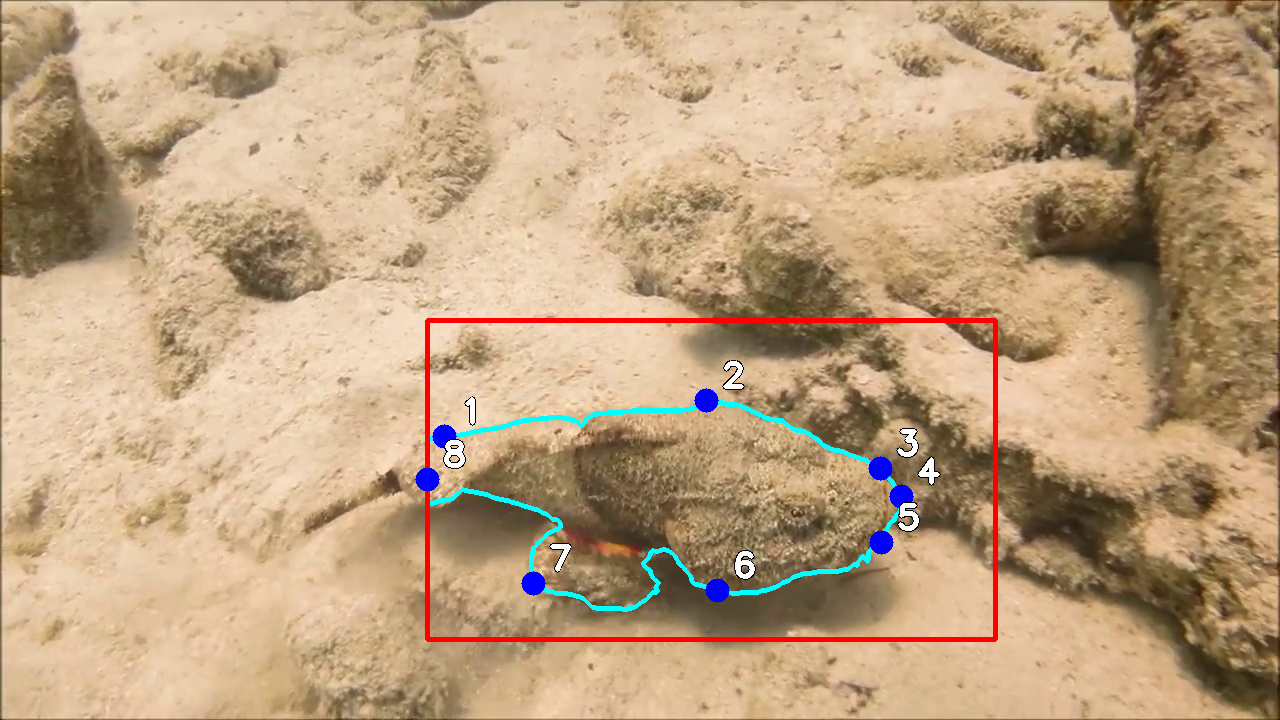
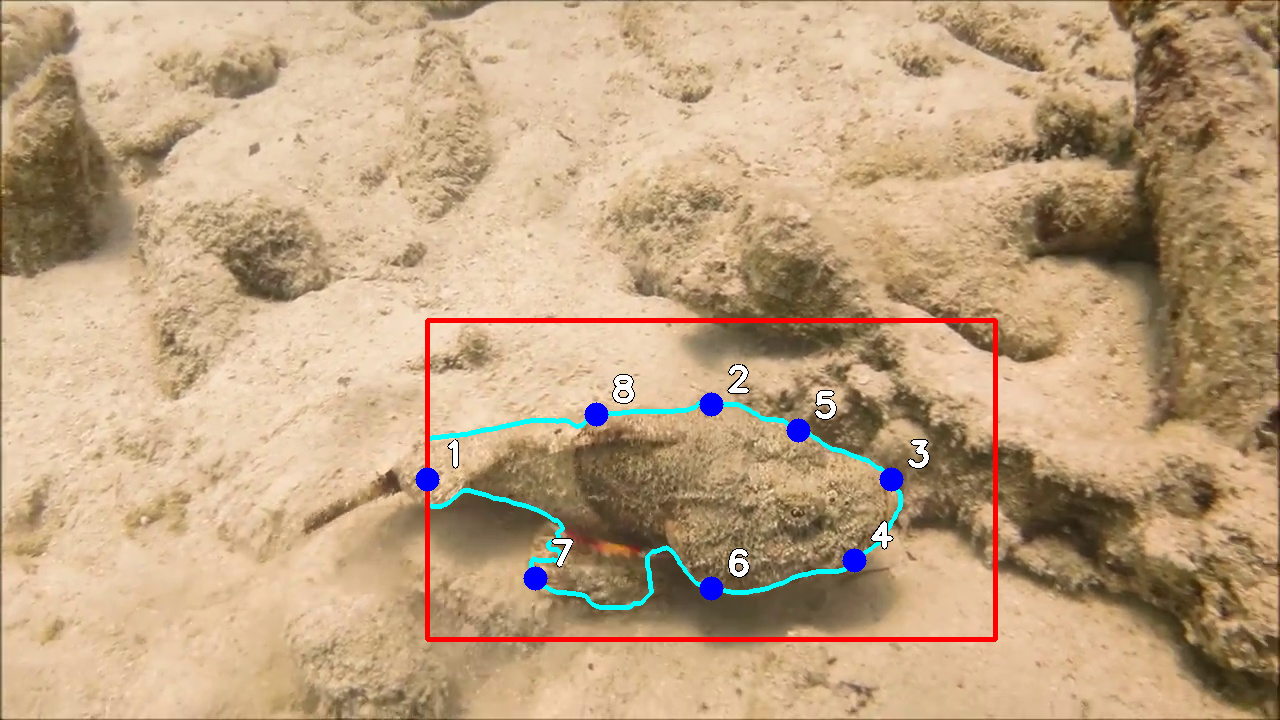
v1成功了

diff --git a/refactor_sam_sculpt.py b/refactor_sam_sculpt.py
@@ -162,6 +162,108 @@ def get_anchor_points(roi_box: ROIBox) -> List[Tuple[float, float]]:
     ]
 
 
+def find_line_contour_intersections(line_start: Tuple[float, float], line_end: Tuple[float, float], contour: np.ndarray) -> List[Tuple[float, float]]:
+    """找到线段与轮廓的交点"""
+    if len(contour) == 0:
+        return []
+
+    intersections = []
+    x1, y1 = line_start
+    x2, y2 = line_end
+
+    # 遍历轮廓的每条边，找交点
+    for i in range(len(contour)):
+        # 当前边的两个端点
+        p1 = contour[i]
+        p2 = contour[(i + 1) % len(contour)]
+
+        x3, y3 = float(p1[0]), float(p1[1])
+        x4, y4 = float(p2[0]), float(p2[1])
+
+        # 计算两条线段的交点（如果存在）
+        denom = (x1 - x2) * (y3 - y4) - (y1 - y2) * (x3 - x4)
+        if abs(denom) < 1e-10:  # 平行线
+            continue
+
+        t = ((x1 - x3) * (y3 - y4) - (y1 - y3) * (x3 - x4)) / denom
+        u = -((x1 - x2) * (y1 - y3) - (y1 - y2) * (x1 - x3)) / denom
+
+        # 检查交点是否在两条线段上
+        if 0 <= t <= 1 and 0 <= u <= 1:
+            ix = x1 + t * (x2 - x1)
+            iy = y1 + t * (y2 - y1)
+            intersections.append((ix, iy))
+
+    return intersections
+
+
+def get_line_based_anchor_points(roi_box: ROIBox, mask: np.ndarray) -> List[Tuple[float, float]]:
+    """基于BBox连线与轮廓交点的锚点生成方法"""
+    # 提取主轮廓
+    main_contour = extract_main_contour(mask)
+
+    # 如果没有轮廓，返回原始锚点
+    if len(main_contour) == 0:
+        print("[WARN] 未找到主轮廓，使用原始锚点")
+        return get_anchor_points(roi_box)
+
+    x0, y0, x1, y1 = roi_box.x0, roi_box.y0, roi_box.x1, roi_box.y1
+    cx, cy = (x0 + x1) / 2, (y0 + y1) / 2
+
+    # 定义4条关键线段
+    lines = [
+        # 对角线1：左上角到右下角
+        ((x0, y0), (x1, y1)),
+        # 对角线2：右上角到左下角
+        ((x1, y0), (x0, y1)),
+        # 垂直中线：上边中点到下边中点
+        ((cx, y0), (cx, y1)),
+        # 水平中线：左边中点到右边中点
+        ((x0, cy), (x1, cy))
+    ]
+
+    # 收集所有交点
+    all_intersections = []
+    for line_start, line_end in lines:
+        intersections = find_line_contour_intersections(line_start, line_end, main_contour)
+        all_intersections.extend(intersections)
+
+    # 如果交点不足，使用原始锚点作为补充
+    if len(all_intersections) < 8:
+        print(f"[INFO] 找到 {len(all_intersections)} 个交点，使用原始锚点补充")
+        original_anchors = get_anchor_points(roi_box)
+
+        # 使用交点作为前几个锚点，剩余用原始锚点填充
+        result_anchors = all_intersections[:]
+        for i in range(len(all_intersections), 8):
+            if i < len(original_anchors):
+                result_anchors.append(original_anchors[i])
+    else:
+        # 如果交点过多，选择8个最具代表性的点
+        # 按照与BBox角点和边中点的距离进行选择
+        original_anchors = get_anchor_points(roi_box)
+        result_anchors = []
+
+        for orig_anchor in original_anchors:
+            # 找到距离原始锚点最近的交点
+            if all_intersections:
+                distances = [
+                    (ix - orig_anchor[0])**2 + (iy - orig_anchor[1])**2
+                    for ix, iy in all_intersections
+                ]
+                closest_idx = np.argmin(distances)
+                closest_intersection = all_intersections.pop(closest_idx)
+                result_anchors.append(closest_intersection)
+            else:
+                result_anchors.append(orig_anchor)
+
+    # 打印调试信息
+    for i, anchor in enumerate(result_anchors[:8]):
+        print(f"锚点 {i+1}: ({anchor[0]:.1f}, {anchor[1]:.1f})")
+
+    return result_anchors[:8]
+
+
 def get_projected_anchor_points(roi_box: ROIBox, mask: np.ndarray) -> List[Tuple[float, float]]:
     """获取贴边投影后的8个锚点坐标（投影到轮廓上）"""
     # 首先获取原始锚点
@@ -207,8 +309,8 @@ def draw_anchors_on_image(image: np.ndarray, roi_box: ROIBox, mask: np.ndarray) 
     _, box_th = _auto_font_and_thickness(base_len)
     cv2.rectangle(vis_img, (int(roi_box.x0), int(roi_box.y0)), (int(roi_box.x1), int(roi_box.y1)), (255, 0, 0), box_th)
 
-    # 使用贴边投影后的锚点
-    projected_anchor_points = get_projected_anchor_points(roi_box, mask)
+    # 使用基于连线交点的锚点
+    projected_anchor_points = get_line_based_anchor_points(roi_box, mask)
     radius = int(max(5, min(16, base_len / 25.0)))
     font_scale, text_th = _auto_font_and_thickness(base_len)
     
@@ -223,6 +325,154 @@ def draw_anchors_on_image(image: np.ndarray, roi_box: ROIBox, mask: np.ndarray) 
         cv2.putText(vis_img, str(i), (text_x, text_y), cv2.FONT_HERSHEY_SIMPLEX, font_scale, (255, 255, 255), text_th)
 
     return vis_img
+
+
+def get_contour_tangent_at_point(point: Tuple[float, float], contour: np.ndarray, window_size: int = 5) -> Tuple[float, float]:
+    """计算轮廓在指定点处的切线向量"""
+    if len(contour) == 0:
+        return (1.0, 0.0)  # 默认水平方向
+
+    px, py = float(point[0]), float(point[1])
+
+    # 找到距离锚点最近的轮廓点
+    distances = np.sqrt((contour[:, 0] - px) ** 2 + (contour[:, 1] - py) ** 2)
+    closest_idx = np.argmin(distances)
+
+    # 在最近点周围取一个窗口来计算切线
+    n_points = len(contour)
+    start_idx = (closest_idx - window_size) % n_points
+    end_idx = (closest_idx + window_size) % n_points
+
+    # 取窗口内的点
+    if start_idx <= end_idx:
+        window_points = contour[start_idx:end_idx+1]
+    else:
+        window_points = np.concatenate([contour[start_idx:], contour[:end_idx+1]])
+
+    if len(window_points) < 2:
+        return (1.0, 0.0)
+
+    # 计算平均切线方向
+    tangent_vectors = []
+    for i in range(len(window_points) - 1):
+        dx = window_points[i+1][0] - window_points[i][0]
+        dy = window_points[i+1][1] - window_points[i][1]
+        if dx != 0 or dy != 0:
+            tangent_vectors.append((dx, dy))
+
+    if not tangent_vectors:
+        return (1.0, 0.0)
+
+    # 计算平均切线方向
+    avg_dx = sum(v[0] for v in tangent_vectors) / len(tangent_vectors)
+    avg_dy = sum(v[1] for v in tangent_vectors) / len(tangent_vectors)
+
+    # 归一化
+    length = np.sqrt(avg_dx * avg_dx + avg_dy * avg_dy)
+    if length < 1e-6:
+        return (1.0, 0.0)
+
+    return (avg_dx / length, avg_dy / length)
+
+
+def create_tangent_square_visualization(image: np.ndarray, anchor_point: Tuple[float, float],
+                                      roi_box: ROIBox, mask: np.ndarray, anchor_id: int,
+                                      ratio: float = 0.8) -> Tuple[np.ndarray, Tuple[int, int, int, int, Tuple[float, float], Tuple[float, float]]]:
+    """基于切线的内外正方形可视化"""
+    # 计算正方形半边长
+    roi_width = roi_box.x1 - roi_box.x0
+    roi_height = roi_box.y1 - roi_box.y0
+    base_size = max(120.0, float(ratio) * float(min(roi_width, roi_height)))
+    half_size = base_size / 2.0
+
+    # 锚点坐标
+    cx, cy = float(anchor_point[0]), float(anchor_point[1])
+
+    # 提取主轮廓并计算切线方向
+    main_contour = extract_main_contour(mask)
+    if len(main_contour) > 0:
+        tangent_dx, tangent_dy = get_contour_tangent_at_point(anchor_point, main_contour)
+    else:
+        tangent_dx, tangent_dy = 1.0, 0.0  # 默认水平方向
+
+    # 计算法线方向（垂直于切线，指向内侧）
+    normal_dx, normal_dy = -tangent_dy, tangent_dx
+
+    # 计算正方形的四个角点
+    # 以切线和法线方向为基础构建正方形
+    corners = [
+        (cx - half_size * tangent_dx - half_size * normal_dx, cy - half_size * tangent_dy - half_size * normal_dy),  # 左下
+        (cx + half_size * tangent_dx - half_size * normal_dx, cy + half_size * tangent_dy - half_size * normal_dy),  # 右下
+        (cx + half_size * tangent_dx + half_size * normal_dx, cy + half_size * tangent_dy + half_size * normal_dy),  # 右上
+        (cx - half_size * tangent_dx + half_size * normal_dx, cy - half_size * tangent_dy + half_size * normal_dy),  # 左上
+    ]
+
+    # 计算包围盒
+    min_x = min(corner[0] for corner in corners)
+    max_x = max(corner[0] for corner in corners)
+    min_y = min(corner[1] for corner in corners)
+    max_y = max(corner[1] for corner in corners)
+
+    L = max(0, int(round(min_x)))
+    T = max(0, int(round(min_y)))
+    R = min(int(image.shape[1]), int(round(max_x)))
+    Btm = min(int(image.shape[0]), int(round(max_y)))
+
+    vis = image.copy()
+
+    # 绘制轮廓
+    if len(main_contour) > 0:
+        base_len = float(min(roi_width, roi_height))
+        _, contour_th = _auto_font_and_thickness(base_len)
+        contour_th = max(2, contour_th)
+        cv2.drawContours(vis, [main_contour.reshape(-1, 1, 2).astype(np.int32)], -1, (0, 255, 255), contour_th // 2)
+
+    # 线宽与字体
+    font_scale, thick = _auto_font_and_thickness(base_size)
+    line_th = max(2, thick)
+
+    # 绘制正方形边框
+    square_points = np.array(corners, dtype=np.int32)
+    cv2.polylines(vis, [square_points], True, (0, 255, 255), line_th)
+
+    # 绘制切线（水平分割线）
+    cut_line_start = (cx - half_size * tangent_dx, cy - half_size * tangent_dy)
+    cut_line_end = (cx + half_size * tangent_dx, cy + half_size * tangent_dy)
+    cv2.line(vis, (int(cut_line_start[0]), int(cut_line_start[1])),
+             (int(cut_line_end[0]), int(cut_line_end[1])), (0, 255, 255), line_th)
+
+    # 计算内外区域的中心点
+    inner_center = (cx + half_size * normal_dx * 0.5, cy + half_size * normal_dy * 0.5)  # 内侧区域中心
+    outer_center = (cx - half_size * normal_dx * 0.5, cy - half_size * normal_dy * 0.5)  # 外侧区域中心
+
+    # 绘制区域标签
+    # "内" 标签 (1)
+    cv2.putText(vis, "1", (int(inner_center[0]), int(inner_center[1])),
+                cv2.FONT_HERSHEY_SIMPLEX, font_scale, (0, 0, 0), thick + 2)
+    cv2.putText(vis, "1", (int(inner_center[0]), int(inner_center[1])),
+                cv2.FONT_HERSHEY_SIMPLEX, font_scale, (255, 255, 0), thick)
+
+    # "外" 标签 (2)
+    cv2.putText(vis, "2", (int(outer_center[0]), int(outer_center[1])),
+                cv2.FONT_HERSHEY_SIMPLEX, font_scale, (0, 0, 0), thick + 2)
+    cv2.putText(vis, "2", (int(outer_center[0]), int(outer_center[1])),
+                cv2.FONT_HERSHEY_SIMPLEX, font_scale, (255, 255, 0), thick)
+
+    return vis, (L, T, R, Btm, inner_center, outer_center)
+
+
+def get_tangent_region_center(square_bounds: Tuple[int, int, int, int, Tuple[float, float], Tuple[float, float]],
+                            region_id: int) -> Tuple[float, float]:
+    """获取指定切线区域的中心点坐标"""
+    _, _, _, _, inner_center, outer_center = square_bounds
+
+    if region_id == 1:  # 内侧区域
+        return inner_center
+    elif region_id == 2:  # 外侧区域
+        return outer_center
+    else:
+        # 默认返回内侧中心
+        return inner_center
 
 
 def create_quadrant_visualization(image: np.ndarray, anchor_point: Tuple[float, float],
@@ -438,8 +688,8 @@ def main():
         # 收集所有正负点
         all_pos_points = []
         all_neg_points = []
-        # 使用贴边投影后的锚点
-        projected_anchor_points = get_projected_anchor_points(roi_box, current_mask)
+        # 使用基于连线交点的锚点
+        projected_anchor_points = get_line_based_anchor_points(roi_box, current_mask)
 
         for anchor_info in selected_anchors:
             anchor_id = int(anchor_info.get('id', 0))
@@ -449,12 +699,12 @@ def main():
             # 使用贴边投影后的锚点位置
             anchor_point = projected_anchor_points[anchor_id - 1]
 
-            # 步骤3: 创建扇形可视化
-            print(f"步骤3: 为锚点 {anchor_id} 创建扇形...")
-            quad_vis, circle_bounds = create_quadrant_visualization(
+            # 步骤3: 创建切线内外区域可视化
+            print(f"步骤3: 为锚点 {anchor_id} 创建切线内外区域...")
+            quad_vis, square_bounds = create_tangent_square_visualization(
                 image, anchor_point, roi_box, current_mask, anchor_id, ratio=float(args.ratio)
             )
-            save_image(os.path.join(output_dir, f'step3_round{round_idx + 1}_anchor{anchor_id}_sectors.png'), quad_vis)
+            save_image(os.path.join(output_dir, f'step3_round{round_idx + 1}_anchor{anchor_id}_tangent_square.png'), quad_vis)
 
             # 传给VLM前缩放
             quad_vis_vlm = _resize_for_vlm(quad_vis, int(args.vlm_max_side))
@@ -468,8 +718,8 @@ def main():
                 region_id = int(edit.get('region_id', 0))
                 action = str(edit.get('action', ''))
 
-                if region_id in [1, 2, 3, 4] and action in ['pos', 'neg']:
-                    point = get_sector_center(circle_bounds, region_id, anchor_point)
+                if region_id in [1, 2] and action in ['pos', 'neg']:
+                    point = get_tangent_region_center(square_bounds, region_id)
                     if action == 'pos':
                         all_pos_points.append(point)
                     else:

diff --git a/src/sculptor/vlm/prompts.py b/src/sculptor/vlm/prompts.py
@@ -79,11 +79,11 @@ def build_quadrant_prompt(
     *,
     semantic: Optional[SemanticCtx] = None,
     anchor_hint: Optional[str] = None,
-    max_pos: int = 2,
-    max_neg: int = 2
+    max_pos: int = 1,
+    max_neg: int = 1
 ) -> Dict[str, str]:
     """
-    不改变原有键，但更清晰地约束如何判定 pos/neg。
+    基于切线内外区域的提示词构建。
     """
     sem = semantic or {}
     sys_msg = (
@@ -98,34 +98,43 @@ Salient cues: {_fmt_list(sem.get('salient_cues'))}
 Distractors: {_fmt_list(sem.get('distractors'))}
 NOT-target parts: {_fmt_list(sem.get('not_target_parts'))}
 
-Focus anchor id: {anchor_id}. A square centered at this anchor is split into 4 regions {{1..4}}.
-Normal points outward from the current mask. Tangent aligns with boundary flow.
+Focus anchor id: {anchor_id}. A square region centered at this anchor point is divided by the contour's tangent line into two areas:
+- Region 1 (Inner): The side toward the object interior
+- Region 2 (Outer): The side toward the background/exterior
 
 Internal decision rubric (DO NOT OUTPUT):
-- POS if the region continues target's texture/shape along the inward side or closes a plausible gap.
-- NEG if the region matches background distractors or disrupts target silhouette (outward leak).
-- Prefer one POS + one NEG if both are clear; otherwise choose the single most informative action.
-- Avoid POS where texture sharply mismatches target cues; avoid NEG where cues clearly match the target.
-- Max {max_pos} POS and {max_neg} NEG actions.
+- POS if the region contains target texture/pattern that should be included in the mask
+- NEG if the region contains background patterns, distractors, or should be excluded from the mask
+- You MUST select exactly one region (either inner or outer, not both)
+- Choose the action (pos/neg) that will most improve the segmentation quality
+- Inner regions typically get POS when object extends inward; NEG when mask over-includes
+- Outer regions typically get NEG when background leaks in; POS when object extends outward
 
 Return JSON STRICTLY:
 {{
   "anchor_id": {anchor_id},
   "edits": [
-    {{ "region_id": 1-4, "action": "pos" | "neg", "why": "short justification (no numbers)" }}
+    {{ "region_id": 1 | 2, "action": "pos" | "neg", "why": "short justification" }}
   ]
 }}
 Constraints:
-- 1 <= len(edits) <= {max(1, max_pos + max_neg)}
-- Use only ids 1..4
-- Keep 'why' short; no lists or numbering
+- len(edits) == 1 (exactly one region selection)
+- region_id must be 1 (inner) or 2 (outer)
+- action must be "pos" or "neg"
+- Keep 'why' brief and descriptive
 
 Few-shot examples (DO NOT COPY):
 {{
   "anchor_id": 3,
   "edits": [
-    {{ "region_id": 2, "action": "neg", "why": "sand ripple leak" }},
-    {{ "region_id": 4, "action": "pos", "why": "mottled texture continues" }}
+    {{ "region_id": 2, "action": "neg", "why": "sand ripple background leak" }}
+  ]
+}}
+
+{{
+  "anchor_id": 5,
+  "edits": [
+    {{ "region_id": 1, "action": "pos", "why": "fin texture continues inward" }}
   ]
 }}
 """
